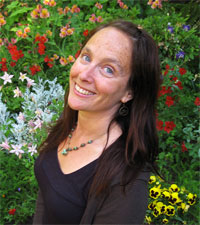
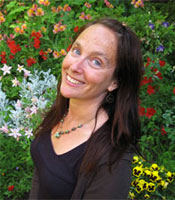
made some pictures larger on people page

diff --git a/people.html b/people.html
@@ -278,7 +278,7 @@ Barbara/San Diego State University Joint Doctoral Program in Geography, her M.S.
 
   <div style="clear:both;height:15px"></div>
   <p><a name="Douglass" class="anchor"></a> </p>
-    <div class="photo_right"> <img src="images/bios/James.gif" alt="James Douglas" height="140" /> </div>
+    <div class="photo_right"> <img src="images/bios/James_Douglass2.jpg" alt="James Douglas" width="150" height="175" /> </div>
   <p><span class="name">James Douglass</span><br />
         Senior Software Engineer<br />
         <script type="text/javascript" language="javascript">poste("jdouglass","stanford","edu");</script>
@@ -348,7 +348,7 @@ Barbara/San Diego State University Joint Doctoral Program in Geography, her M.S.
   <div style="clear:both;height:15px"></div>
   
   <a name="Hamel" class="anchor"></a></p>
-     <div class="photo_right"> <img src="images/bios/Perrine.jpg" alt="Perrine" width="140" height="175" /> </div>
+     <div class="photo_right"> <img src="images/bios/Perrine.jpg" alt="Perrine" width="150" height="175" /> </div>
    <p> <span class="name">Perrine Hamel, Ph.D.</span><br />
 	   Hydrologist<br />
         <script type="text/javascript" language="javascript">poste("perrine.hamel","stanford","edu");</script>
@@ -400,7 +400,7 @@ environmental engineer in Phnom Penh, Cambodia and earned her PhD at Monash Univ
   <p>Martin Lacayo develops the Marine InVEST tools, a set of models for quantifying the services provided by coastal and marine ecosystems. His work focuses primarily on automating GIS processes for conservation modeling and improving the usability of spatial decision support tools. He received his M.S. from the Department of Geography at the San Diego State University and his B.A. in Computer Science from Macalester College.</p>    
    <div style="clear:both;height:15px"></div>
    <p><a name="Langridge" class="anchor"></a> </p>
-        <div class="photo_right"> <img src="images/bios/Suzanne.jpg" alt="Suzanne Langridge" height="140" /> </div>
+        <div class="photo_right"> <img src="images/bios/Suzanne.jpg" alt="Suzanne Langridge" width="150" height="175" /> </div>
  <p><span class="name">Suzanne Langridge, Ph.D.</span><br />
         Ecologist<br />
         <script type="text/javascript" language="javascript">poste("suzanne.langridge","stanford","edu");</script>
@@ -430,7 +430,7 @@ environmental engineer in Phnom Penh, Cambodia and earned her PhD at Monash Univ
   
   <div style="clear:both;height:15px"></div>
   <p><a name="Monosson" class="anchor"></a> </p>
-  <div class="photo_right"> <img src="images/bios/Rachael-pic.jpg" alt="Rachael Monosson" height="160" /> </div>
+  <div class="photo_right"> <img src="images/bios/Rachael-pic.jpg" alt="Rachael Monosson" width="150" height="175" /> </div>
   <p><span class="name">Rachael Monosson</span><br />
         Communications Intern
        <br />
@@ -445,7 +445,7 @@ Biology, from Stanford University in 2012.</p>
 <br />
 <br />
 <p><a name="Nelson" class="anchor"></a> </p>
-<div class="photo_right"> <img src="images/bios/joanna.jpg" alt="Joanna Nelson" height="140" /> </div>
+<div class="photo_right"> <img src="images/bios/joanna.jpg" alt="Joanna Nelson" width="150" height="175" /> </div>
   <p><span class="name">Joanna Nelson</span><br />
 Ecologist<br />
     <script type="text/javascript" language="javascript">poste("joanna.nelson","stanford","edu");</script>
@@ -454,7 +454,7 @@ Ecologist<br />
 <br />
 
   <p><a name="Olwero" class="anchor"></a> </p>
-    		  <div class="photo_right"> <img src="images/bios/olwero.jpg" alt="Nasser Olwero" height="140" /> </div>
+    		  <div class="photo_right"> <img src="images/bios/olwero2.jpg" alt="Nasser Olwero" width="150" height="175" /> </div>
   <p><span class="name">Nasser Olwero</span><br />
             <a href="http://www.worldwildlife.org/science/staff/item5141.html" target="_blank">GIS Manager, World Wildlife Fund (WWF-US) Conservation Science Program</a><br />
           </p>
@@ -462,7 +462,7 @@ Ecologist<br />
 
     <div style="clear:both;height:15px"></div>
   <p><a name="Robinson" class="anchor"></a> </p>
-    <div class="photo_right"> <img src="images/bios/Brian_Robinson.jpg" alt="Brian Robinson" height="140" /> </div>
+    <div class="photo_right"> <img src="images/bios/Brian_Robinson.jpg" alt="Brian Robinson" width="150" height="175" /> </div>
   <p><span class="name">Brian Robinson, Ph.D.</span><br />
       Economist<br />
       <script type="text/javascript" language="javascript">poste("brobinson","umn","edu");</script>
@@ -471,7 +471,7 @@ Ecologist<br />
 
 <div style="clear:both;height:15px"></div>
 <p><a name="Peterson" class="anchor"></a> </p>
-  <div class="photo_right"><img src="images/bios/Victoria.jpg" alt="Victoria Peterson" height="140" /></div>
+  <div class="photo_right"><img src="images/bios/Victoria.jpg" alt="Victoria Peterson" width="150" height="175" /></div>
   <p><span class="name">Victoria Peterson</span><br />
     Communications Intern<br />
     <script type="text/javascript" language="javascript">poste("vapeters","stanford","edu");</script>
@@ -491,7 +491,7 @@ Amy Rosenthal is working with the team and partner sites to create science-polic
    
   <div style="clear:both;height:15px"></div>
   <p><a name="Silver" class="anchor"></a> </p>
-    <div class="photo_right"><img src="images/bios/Jess.gif" alt="Jess Silver" height="140" /></div>
+    <div class="photo_right"><img src="images/bios/Jess2.jpg" alt="Jess Silver" width="150" height="175" /></div>
   <p><span class="name">Jess Silver</span><br />
     Research Assistant<br />
     <script type="text/javascript" language="javascript">poste("jess.silver","stanford","edu");</script>
@@ -519,7 +519,7 @@ Amy Rosenthal is working with the team and partner sites to create science-polic
   
   <div style="clear:both;height:15px"></div>
   <p><a name="Wolny" class="anchor"></a> </p>
-    <div class="photo_right"> <img src="images/bios/Stacie_Wolny.jpg" alt="Stacy Wolny" height="140" /> </div>
+    <div class="photo_right"> <img src="images/bios/Stacie_Wolny2.jpg" alt="Stacy Wolny" width="150" height="175" /> </div>
   <p><span class="name">Stacie Wolny<br />
   </span>GIS Analyst<br />
    <script type="text/javascript" language="javascript">poste("swolny","stanford","edu");</script>
